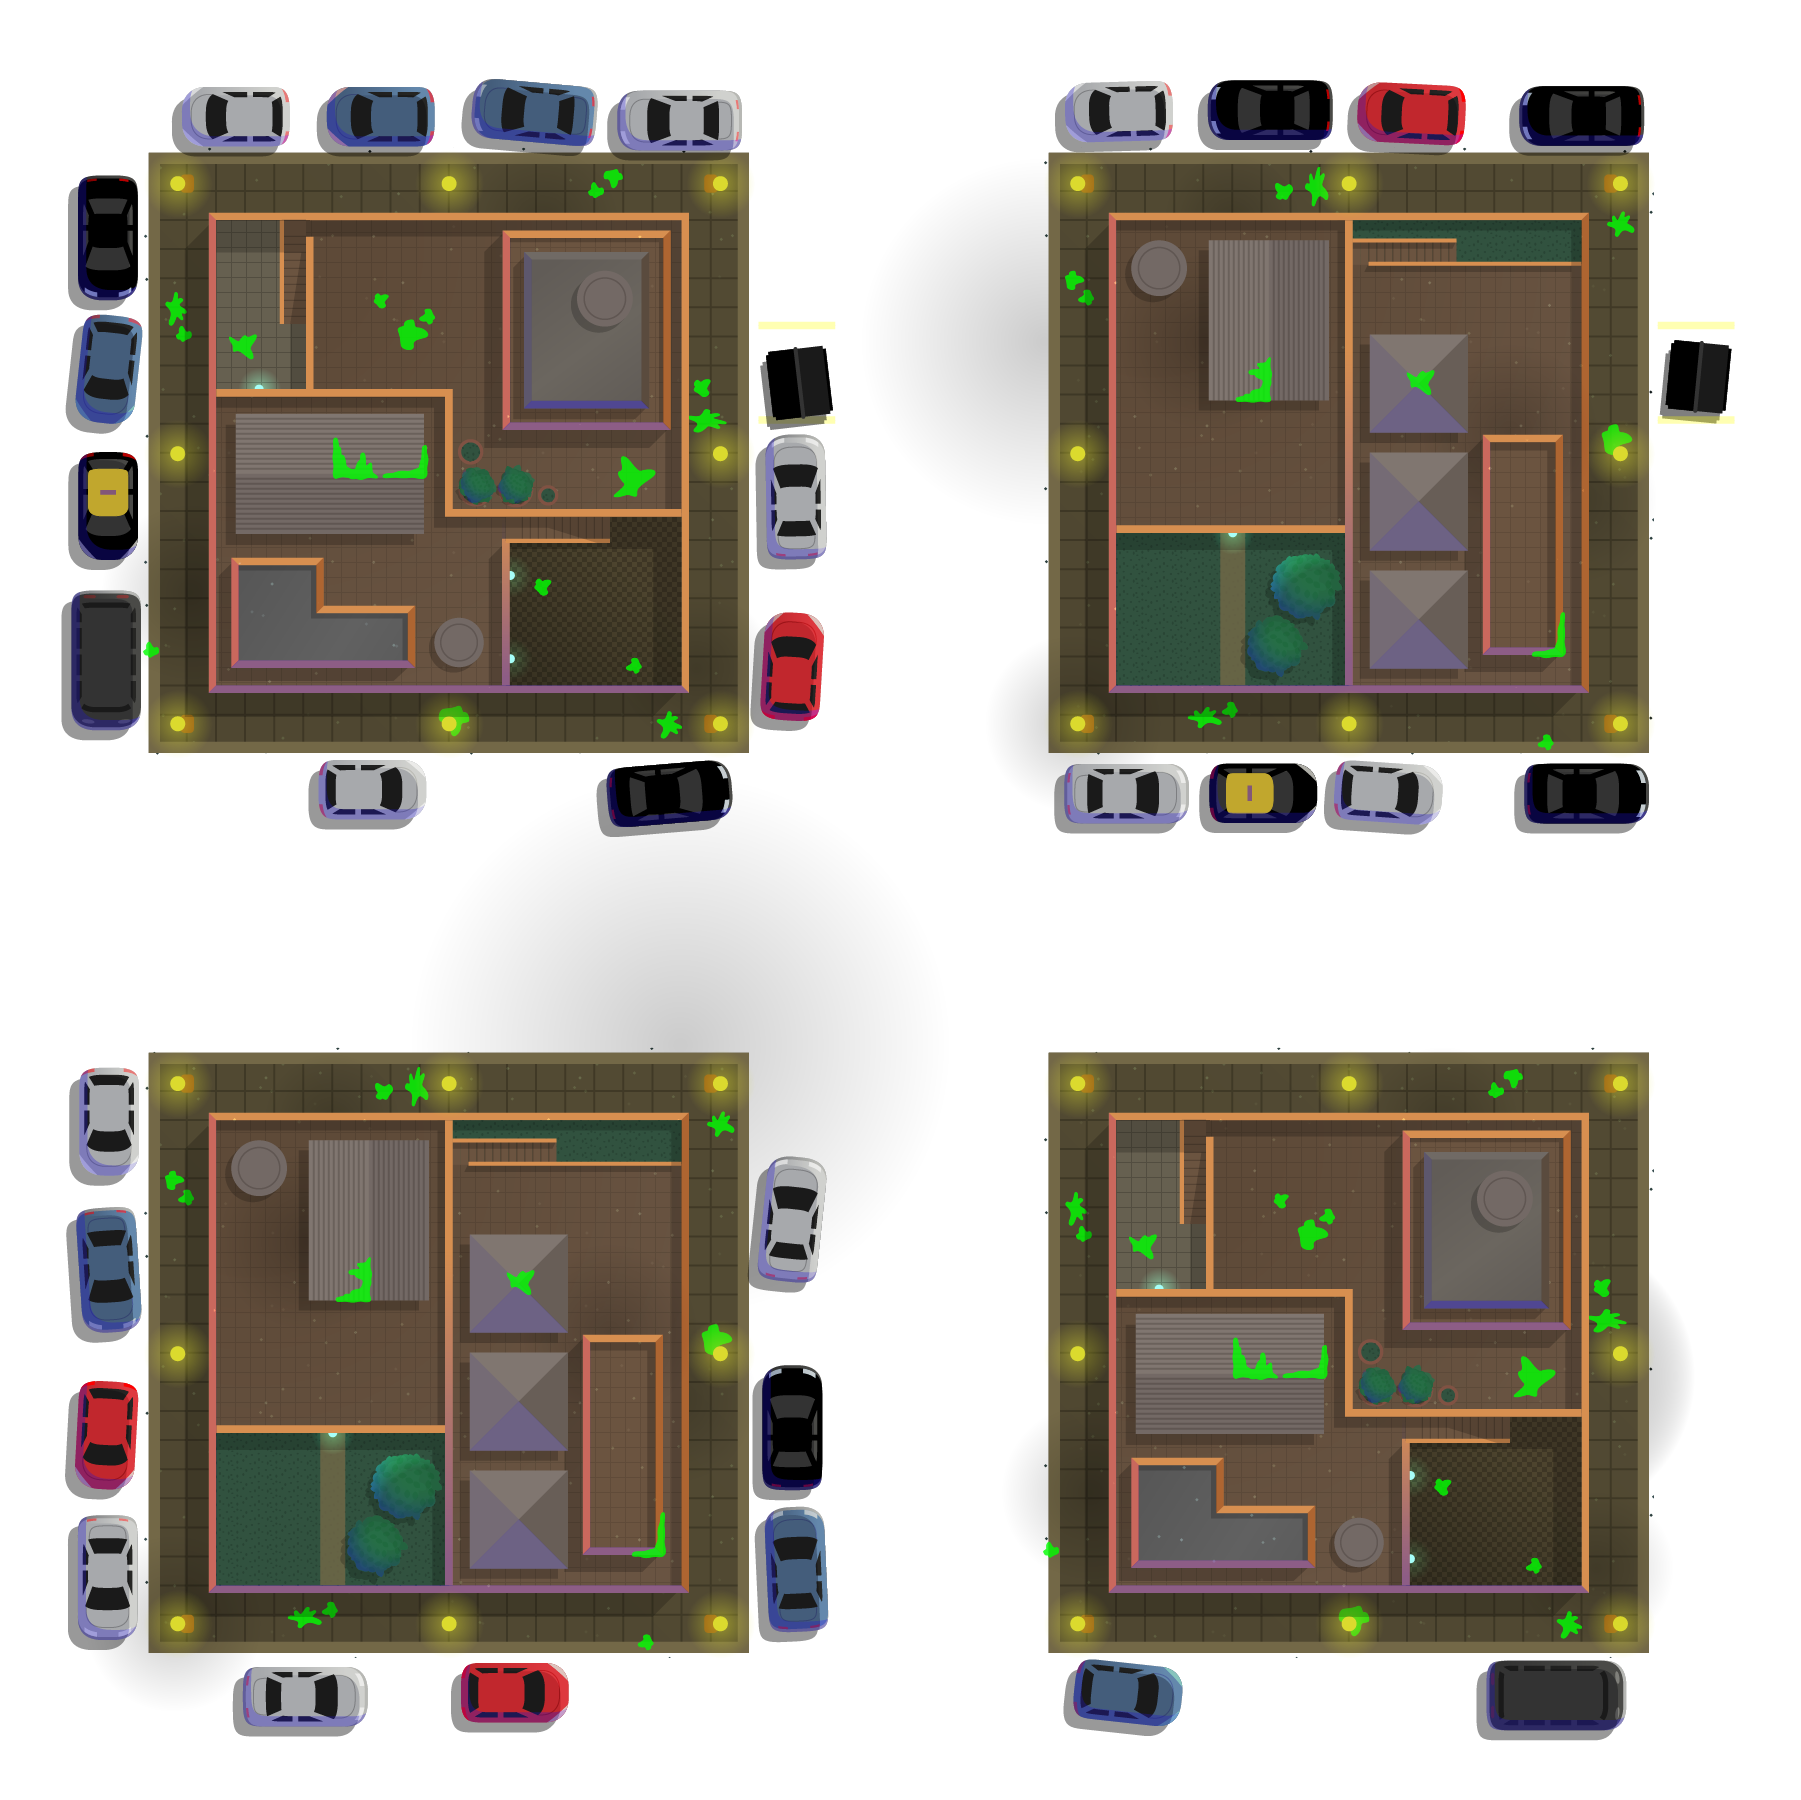
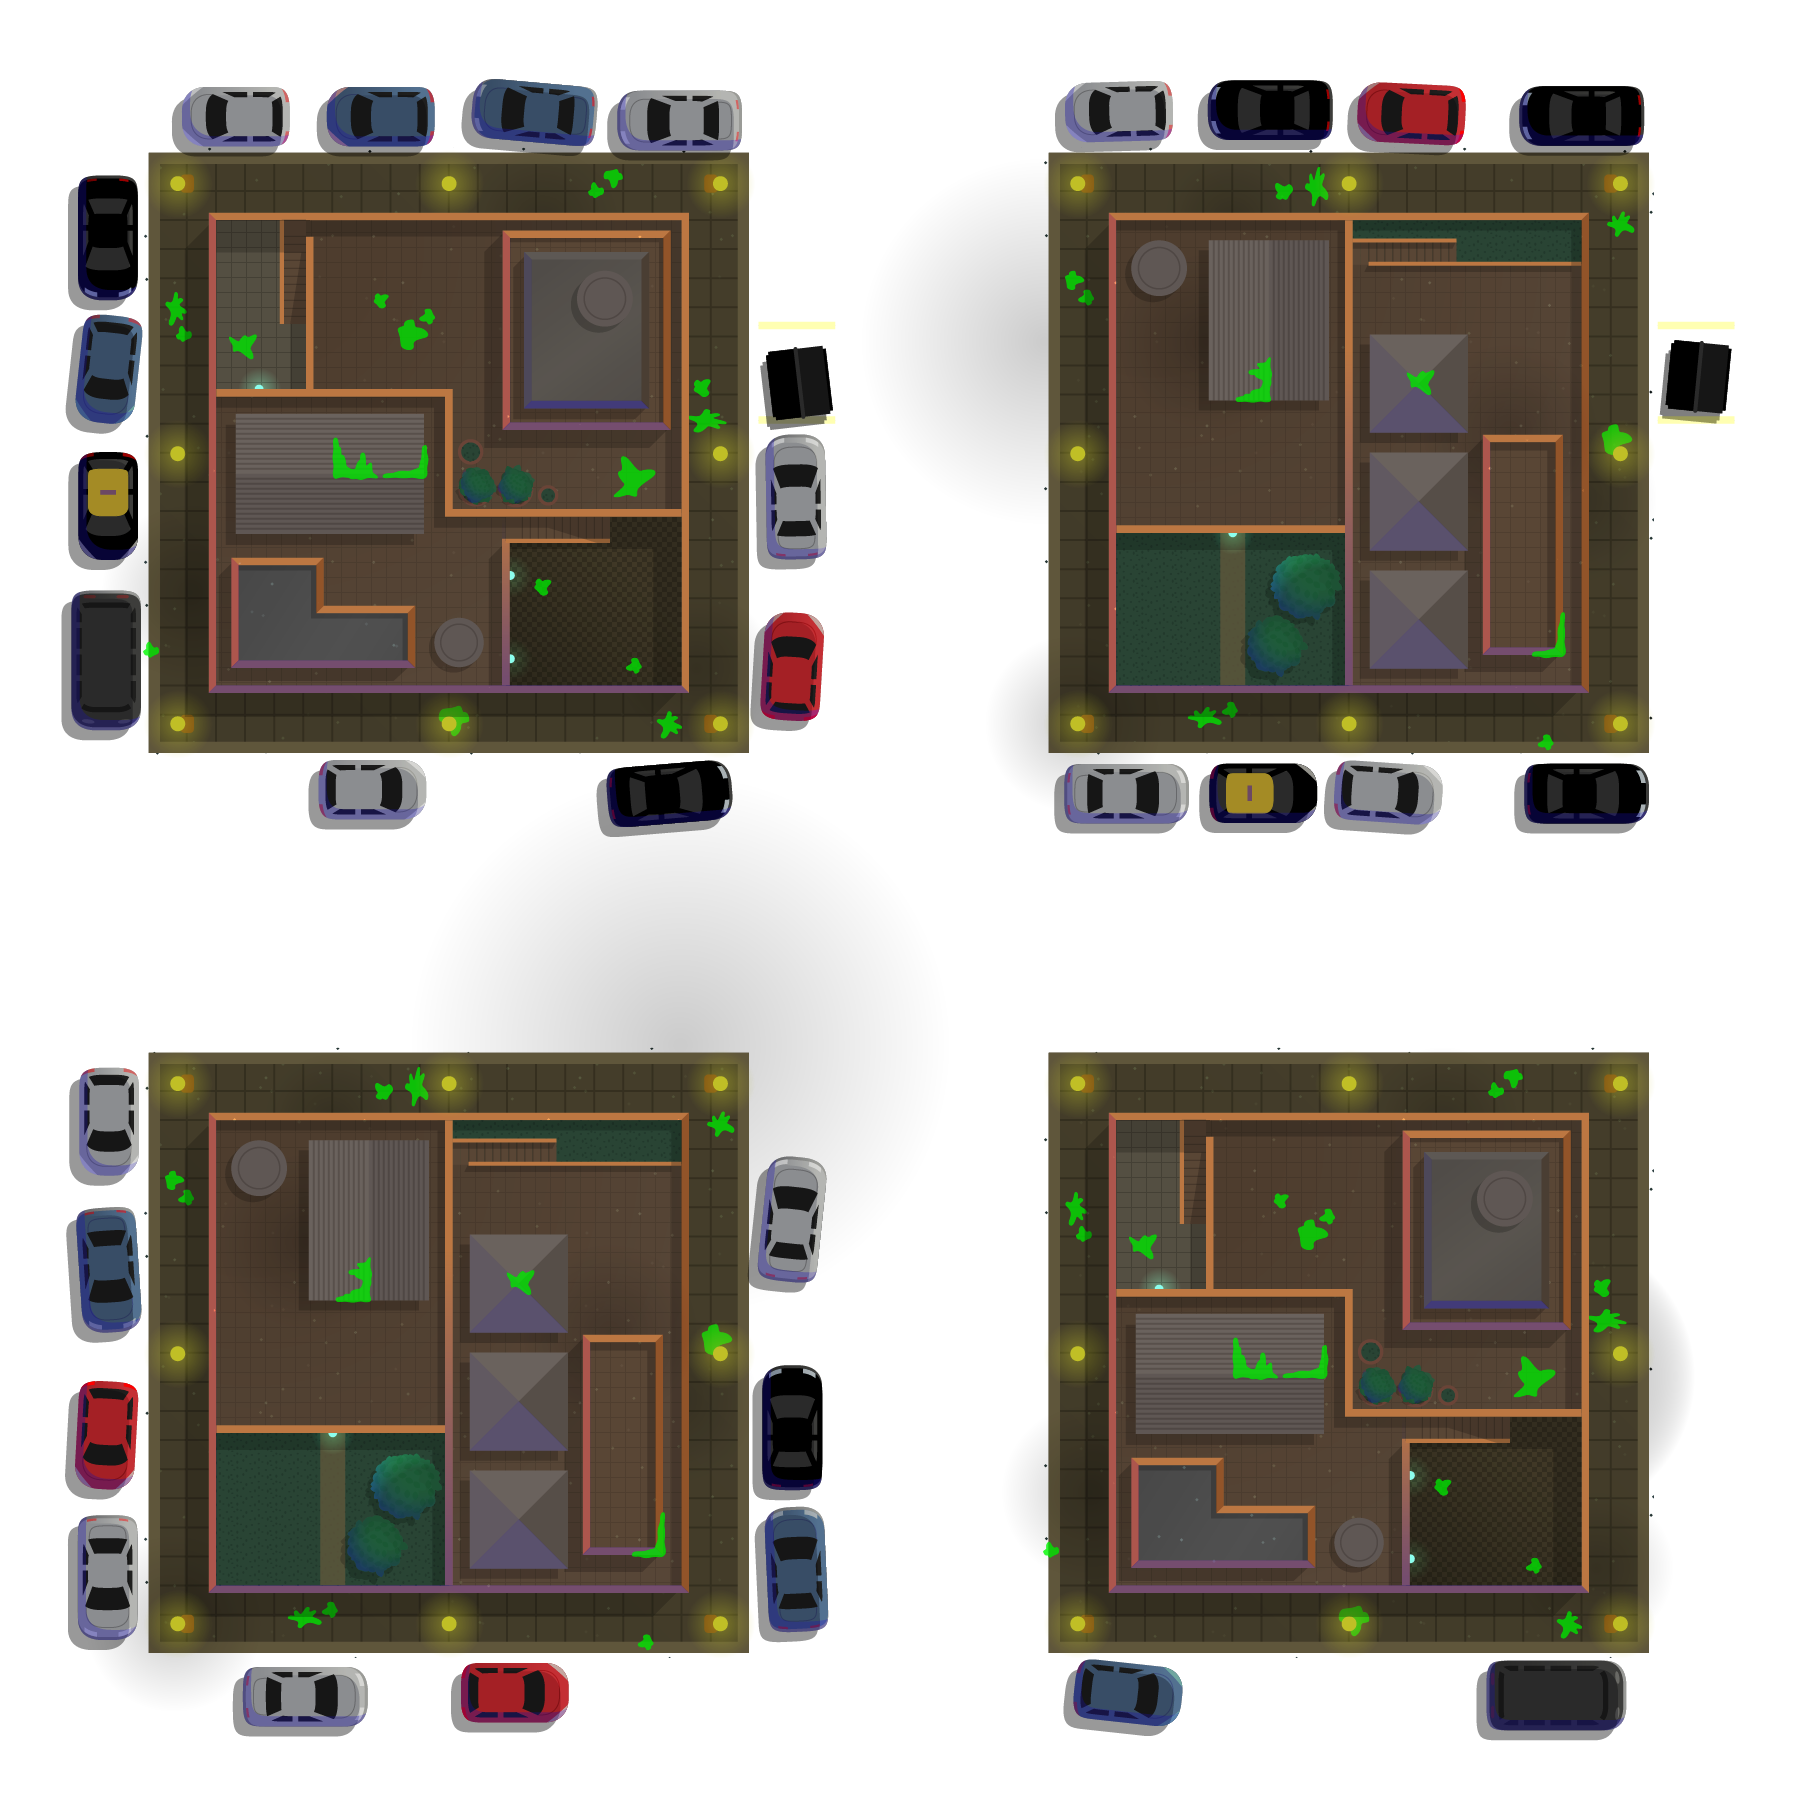
Color del trail / en el level 1 se ve, en el 2 no.

diff --git a/CruceDeMundos/Assets/Scripts/MazeGenerator/VisualCell.cs b/CruceDeMundos/Assets/Scripts/MazeGenerator/VisualCell.cs
@@ -61,7 +61,7 @@ public class VisualCell : MonoBehaviour
 				visited = false;
 				Events.OnNewCell ();
 			} else {
-				gameObject.GetComponent<Renderer> ().material.color = new Color(0,1f,0,0.25f);
+				gameObject.GetComponent<Renderer> ().material.color = new Color(0,0.5f,0,0.5f);
 				visited = true;
 				Events.OnNewCell ();
 			}
